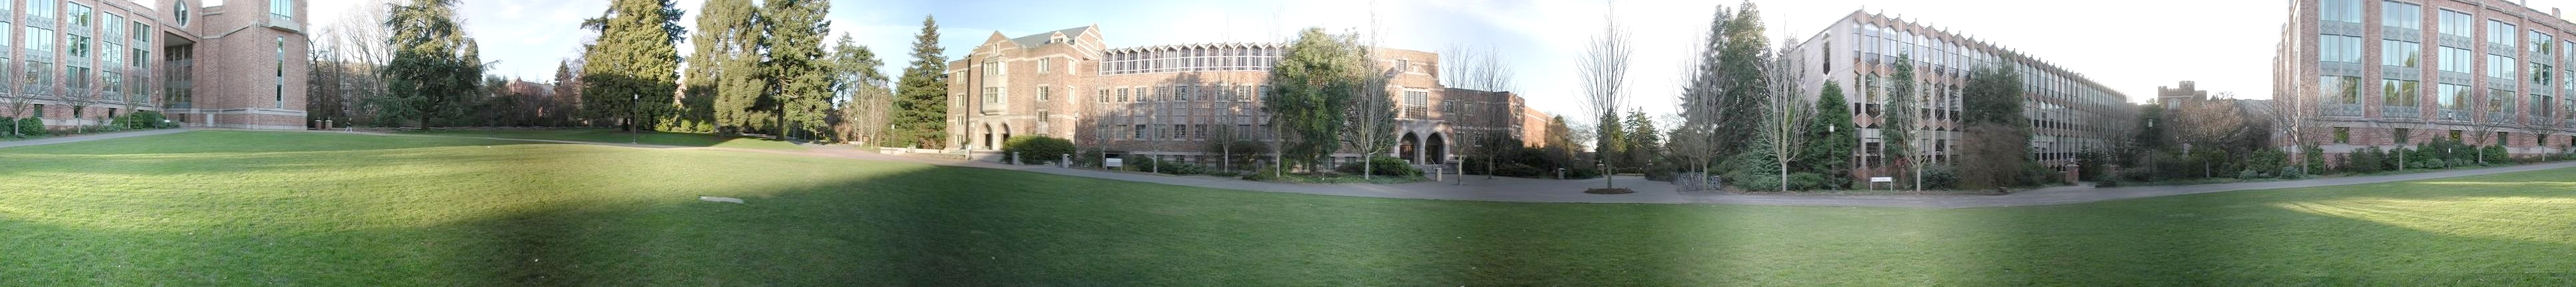
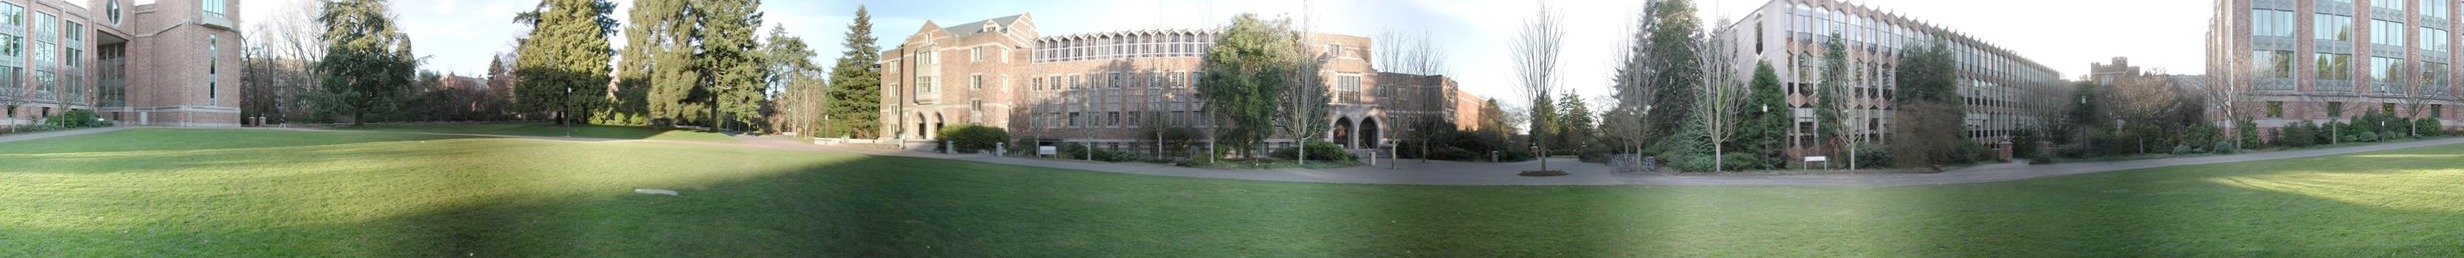
added results images

diff --git a/doc/results2.html b/doc/results2.html
@@ -1,5 +1,17 @@
 <html>
 <head>
+<style>
+	html, body {
+		margin: 0;
+		padding: 0;
+	}
+	.myPano {
+		background-image: url(img/demo2.jpg);
+		height: 387px;
+		cursor: move;
+	}
+</style>
+
 </head>
 
 <!-- INTRO -->
@@ -12,6 +24,13 @@
 <script src="jquery.js"></script> 
 <!--http://kaioa.com/k/test/cyclotron/index.html-->
 <script type="text/javascript"  src="js/jquery.panoViewer.js"></script>
+
+
+<script>
+$(document).ready(function ($) {
+	$('.myPano').panoViewer();
+});
+</script>
 
 <script> 
 $(function(){
@@ -44,7 +63,12 @@ $("#includedContent").load("content.html");
 	<!-- #### DISPLAY AREA ### -->
 			<font color="ffffff">
 <h2><center> Image Stitching: Simple Translations </center></h2>
-
+<div class="myPano"></div>
+<font color="#ffffff" size="1.5">	
+<center>
+<i>Drag the above image (left/right) to view the entire panorama mosaic</i>
+</center>
+</font>
 
 
 
@@ -55,7 +79,7 @@ $("#includedContent").load("content.html");
 	<tr align=center>
 		<td colspan=2>
 			<hr>
-			<img src="img/demo_photo.jpg"  width=1300>
+			<img src="img/demo2.jpg"  width=1300>
 			<hr>
 		</td>
 
